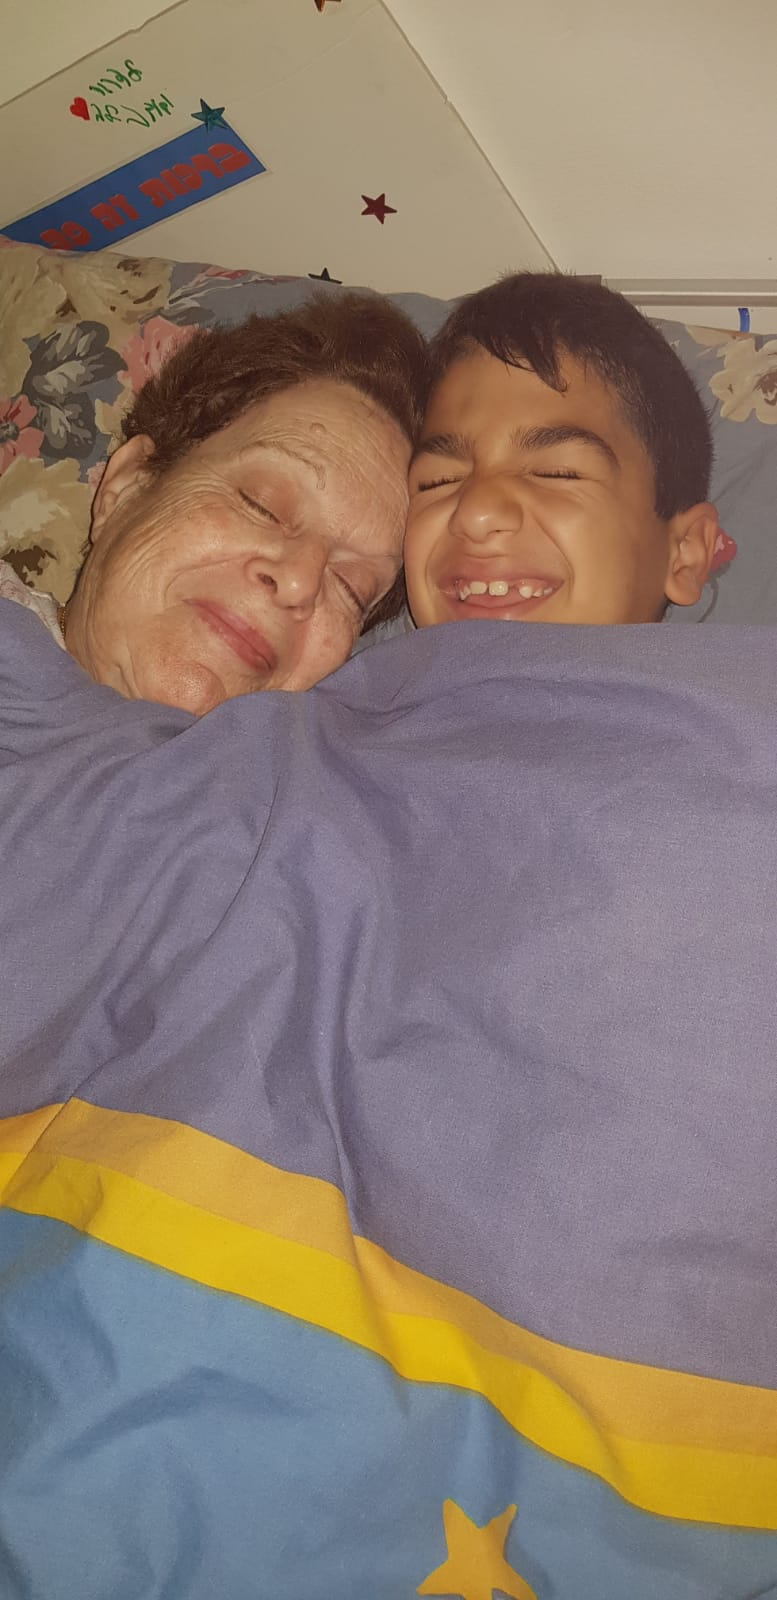
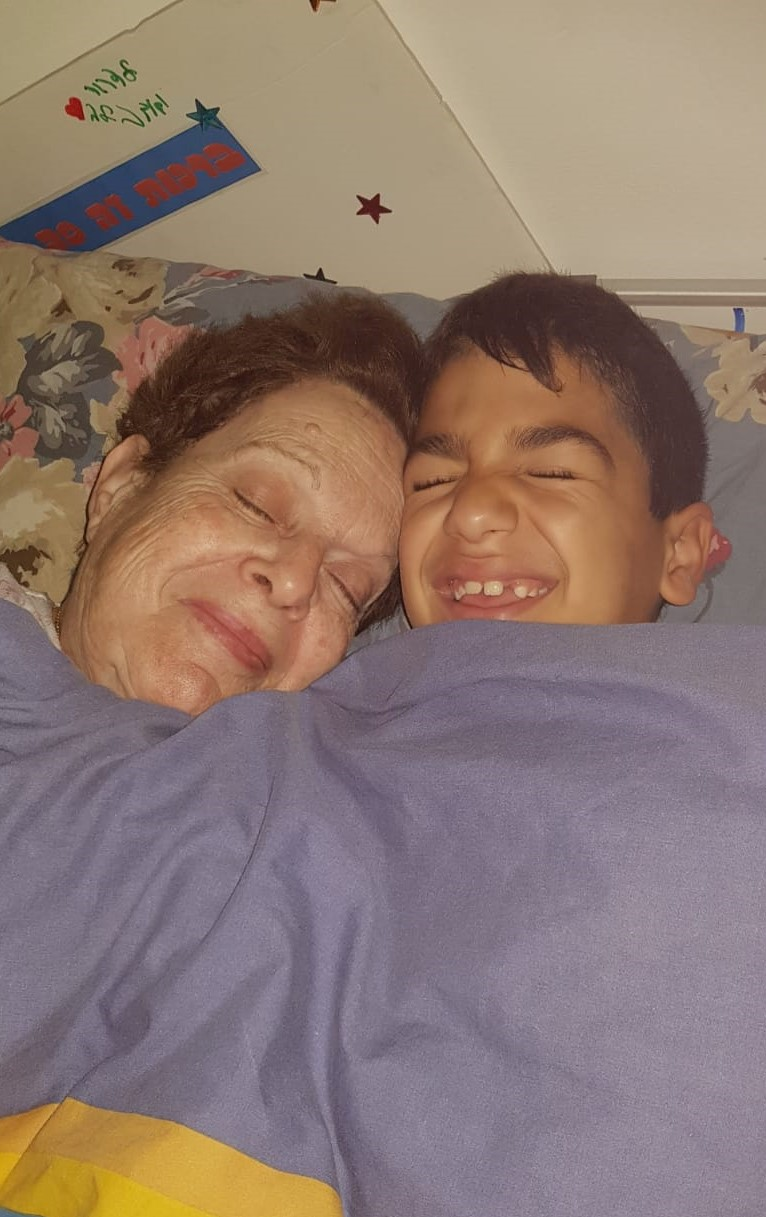
finish photos for now

diff --git a/index.html b/index.html
@@ -94,212 +94,206 @@
  <div class="Pictures-container">
   <!-- Full-width images with number and caption text -->
   <div class="myImages">
-   <div class="numbertext">0 / 34</div>
-   <img src="pictures/img34.jpeg" style="width:480px" style="height:800px">
-   <div class="text">Caption Three</div>
-  </div>
-
-  <div class="myImages">
    <div class="numbertext">1 / 34</div>
-   <img src="pictures/img1.jpeg" style="width:600px" style="height:800px">
+   <img class="sizer" src="pictures/img1.jpeg" >
    <div class="text">Heyyyy therer</div>
   </div>
 
   <div class="myImages">
    <div class="numbertext">2 / 34</div>
-   <img src="pictures/img2.jpeg" style="width:480px" style="height:640px">
+   <img class="sizer" src="pictures/img2.jpeg">
    <div class="text">Heyyyy therer</div>
   </div>
 
   <div class="myImages">
    <div class="numbertext">3 / 34</div>
-   <img src="pictures/img3.jpeg" style="width:480px" style="height:640px">
+   <img  class="sizer" src="pictures/img3.jpeg" >
    <div class="text">Caption Three</div>
   </div>
 
   <div class="myImages">
    <div class="numbertext">4 / 34</div>
-   <img src="pictures/img4.jpeg" style="width:480px" style="height:640px">
+   <img class="sizer" src="pictures/img4.jpeg" >
    <div class="text">Caption Three</div>
   </div>
 
   <div class="myImages">
    <div class="numbertext">5 / 34</div>
-   <img src="pictures/img5.jpeg" style="width:480px" style="height:640px">
+   <img class="sizer" src="pictures/img5.jpeg" >
    <div class="text">Caption Three</div>
   </div>
 
   <div class="myImages">
    <div class="numbertext">6 / 34</div>
-   <img src="pictures/img6.jpeg"style="width:480px" style="height:640px">
+   <img class="sizer" src="pictures/img6.jpeg">
    <div class="text">Caption Three</div>
   </div>
 
   <div class="myImages">
    <div class="numbertext">7 / 34</div>
-   <img src="pictures/img7.jpeg" style="width:480px" style="height:640px">
+   <img class="sizer" src="pictures/img7.jpeg" >
    <div class="text">Caption Three</div>
   </div>
 
   <div class="myImages">
    <div class="numbertext">8 / 34</div>
-   <img src="pictures/img8.jpeg"style="width:480px" style="height:640px">
+   <img class="sizer" src="pictures/img8.jpeg">
    <div class="text">Caption Three</div>
   </div>
 
   <div class="myImages">
    <div class="numbertext">9 / 34</div>
-   <img src="pictures/img9.jpeg" style="width:480px" style="height:640px">
+   <img class="sizer" src="pictures/img9.jpeg" >
    <div class="text">Caption Three</div>
   </div>
 
   <div class="myImages">
    <div class="numbertext">10 / 34</div>
-   <img src="pictures/img10.jpeg" style="width:480px" style="height:800px">
+   <img class="sizer" src="pictures/img10.jpeg">
    <div class="text">Caption Three</div>
   </div>
 
   <div class="myImages">
    <div class="numbertext">11 / 34</div>
-   <img src="pictures/img11.jpeg" style="width:600px" style="height:640px">
+   <img class="sizer" src="pictures/img11.jpeg" >
    <div class="text">Caption Three</div>
   </div>
 
   <div class="myImages">
    <div class="numbertext">12 / 34</div>
-   <img src="pictures/img12.jpeg" style="width:480px" style="height:640px">
+   <img class="sizer" src="pictures/img12.jpeg" >
    <div class="text">Caption Three</div>
   </div>
 
   <div class="myImages">
    <div class="numbertext">13 / 34</div>
-   <img src="pictures/img13.jpeg" style="width:480px" style="height:640px">
+   <img class="sizer" src="pictures/img13.jpeg" >
    <div class="text">Caption Three</div>
   </div>
 
    <div class="myImages">
    <div class="numbertext">14 / 34</div>
-   <img src="pictures/img14.jpeg" style="width:480px" style="height:640px">
+   <img class="sizer"  src="pictures/img14.jpeg">
    <div class="text">Caption Three</div>
   </div>
 
    <div class="myImages">
   <div class="numbertext">15 / 34</div>
-  <img src="pictures/img15.jpeg" style="width:480px" style="height:640px">
+  <img class="sizer" src="pictures/img15.jpeg" >
   <div class="text">Caption Three</div>
  </div>
 
    <div class="myImages">
  <div class="numbertext">16 / 34</div>
- <img src="pictures/img16.jpeg" style="width:480px" style="height:640px">
+ <img class="sizer" src="pictures/img16.jpeg" >
  <div class="text">Caption Three</div>
  </div>
 
    <div class="myImages">
  <div class="numbertext">17 / 34</div>
- <img src="pictures/img17.jpeg" style="width:480px" style="height:640px">
+ <img class="sizer" src="pictures/img17.jpeg" >
  <div class="text">Caption Three</div>
  </div>
 
    <div class="myImages">
  <div class="numbertext">18 / 34</div>
- <img src="pictures/img18.jpeg" style="width:480px" style="height:640px">
+ <img class="sizer"  src="pictures/img18.jpeg" >
  <div class="text">Caption Three</div>
  </div>
 
    <div class="myImages">
  <div class="numbertext">19 / 34</div>
- <img src="pictures/img19.jpeg" style="width:480px" style="height:640px">
+ <img class="sizer" src="pictures/img19.jpeg" >
  <div class="text">Caption Three</div>
  </div>
 
  <div class="myImages">
   <div class="numbertext">20 / 34</div>
-  <img src="pictures/img20.jpeg" style="width:480px" style="height:800px">
+  <img class="sizer" src="pictures/img20.jpeg" >
   <div class="text">Caption Three</div>
  </div>
 
  <div class="myImages">
   <div class="numbertext">21 / 34</div>
-  <img src="pictures/img21.jpeg" style="width:480px" style="height:800px">
+  <img class="sizer" src="pictures/img21.jpeg" >
   <div class="text">Caption Three</div>
  </div>
 
  <div class="myImages">
   <div class="numbertext">22 / 34</div>
-  <img src="pictures/img22.jpeg" style="width:480px" style="height:800px">
+  <img class="sizer"  src="pictures/img22.jpeg">
   <div class="text">Caption Three</div>
  </div>
 
  <div class="myImages">
   <div class="numbertext">23 / 34</div>
-  <img src="pictures/img23.jpeg" style="width:480px" style="height:800px">
+  <img class="sizer" src="pictures/img23.jpeg">
   <div class="text">Caption Three</div>
  </div>
 
  <div class="myImages">
   <div class="numbertext">24 / 34</div>
-  <img src="pictures/img24.jpeg" style="width:480px" style="height:800px">
+  <img class="sizer"  src="pictures/img24.jpeg" >
   <div class="text">Caption Three</div>
  </div>
 
  <div class="myImages">
   <div class="numbertext">25 / 34</div>
-  <img src="pictures/img25.jpeg" style="width:480px" style="height:800px">
+  <img class="sizer" src="pictures/img25.jpeg" >
   <div class="text">Caption Three</div>
  </div>
 
  <div class="myImages">
   <div class="numbertext">26 / 34</div>
-  <img src="pictures/img26.jpeg" style="width:480px" style="height:800px">
+  <img class="sizer" src="pictures/img26.jpeg" >
   <div class="text">Caption Three</div>
  </div>
 
  <div class="myImages">
   <div class="numbertext">27 / 34</div>
-  <img src="pictures/img27.jpeg" style="width:480px" style="height:800px">
+  <img class="sizer"  src="pictures/img27.jpeg">
   <div class="text">Caption Three</div>
  </div>
 
  <div class="myImages">
   <div class="numbertext">28 / 34</div>
-  <img src="pictures/img28.jpeg" style="width:480px" style="height:800px">
+  <img class="sizer" src="pictures/img28.jpeg" >
   <div class="text">Caption Three</div>
  </div>
 
  <div class="myImages">
   <div class="numbertext">29 / 34</div>
-  <img src="pictures/img29.jpeg" style="width:480px" style="height:800px">
+  <img class="sizer" src="pictures/img29.jpeg" >
   <div class="text">Caption Three</div>
  </div>
 
  <div class="myImages">
   <div class="numbertext">30 / 34</div>
-  <img src="pictures/img30.jpeg" style="width:480px" style="height:800px">
+  <img class="sizer" src="pictures/img30.jpeg" >
   <div class="text">Caption Three</div>
  </div>
 
   <div class="myImages">
  <div class="numbertext">31 / 34</div>
- <img src="pictures/img31.jpeg" style="width:480px" style="height:800px">
+ <img class="sizer"  src="pictures/img31.jpeg">
  <div class="text">Caption Three</div>
  </div>
 
  <div class="myImages">
  <div class="numbertext">32 / 34</div>
- <img src="pictures/img32.jpeg" style="width:480px" style="height:800px">
+ <img class="sizer" src="pictures/img32.jpeg" >
  <div class="text">Caption Three</div>
 </div>
 
    <div class="myImages">
  <div class="numbertext">33 / 34</div>
- <img src="pictures/img33.jpeg" style="width:480px" style="height:800px">
+ <img class="sizer" src="pictures/img33.jpeg" >
  <div class="text">Caption Three</div>
 </div>
 
    <div class="myImages">
  <div class="numbertext">34 / 34</div>
- <img src="pictures/img34.jpeg" style="width:480px" style="height:800px">
+ <img class="sizer" src="pictures/img34.jpeg" >
  <div class="text">Caption Three</div>
  </div>
 
@@ -311,7 +305,6 @@
  </div>
  <!-- The dots/circles -->
  <div style="text-align:center">
-  <span class="dot" onclick="currentSlide(0)"></span>
   <span class="dot" onclick="currentSlide(1)"></span>
   <span class="dot" onclick="currentSlide(2)"></span>
   <span class="dot" onclick="currentSlide(3)"></span>

diff --git a/style.css b/style.css
@@ -76,16 +76,21 @@ vertical-align: middle;
 *{box-sizing:border-box}
 /* Slideshow container */
 .Pictures-container {
-    width: 600px;
-    height: 800px;
+    width: 1000px;
+    height: 1000px;
     position: static;
     margin-left: auto;
     margin-right: auto;
     margin-bottom: 2%;
 }
+.sizer {
+    width: 1000px;
+    height: 800px;
+}
 
 /* Hide the images by default */
 .myImages{
+    position: static;
     display: none;
     padding-top: 10px;
 }
@@ -125,8 +130,9 @@ vertical-align: middle;
 
 /* Number text (1/3 etc) */
 .numbertext {
+    font-weight: bold;
     color: black;
-    font-size: 12px;
+    font-size: 20px;
     padding: 8px 12px;
     top: 0;
 }
